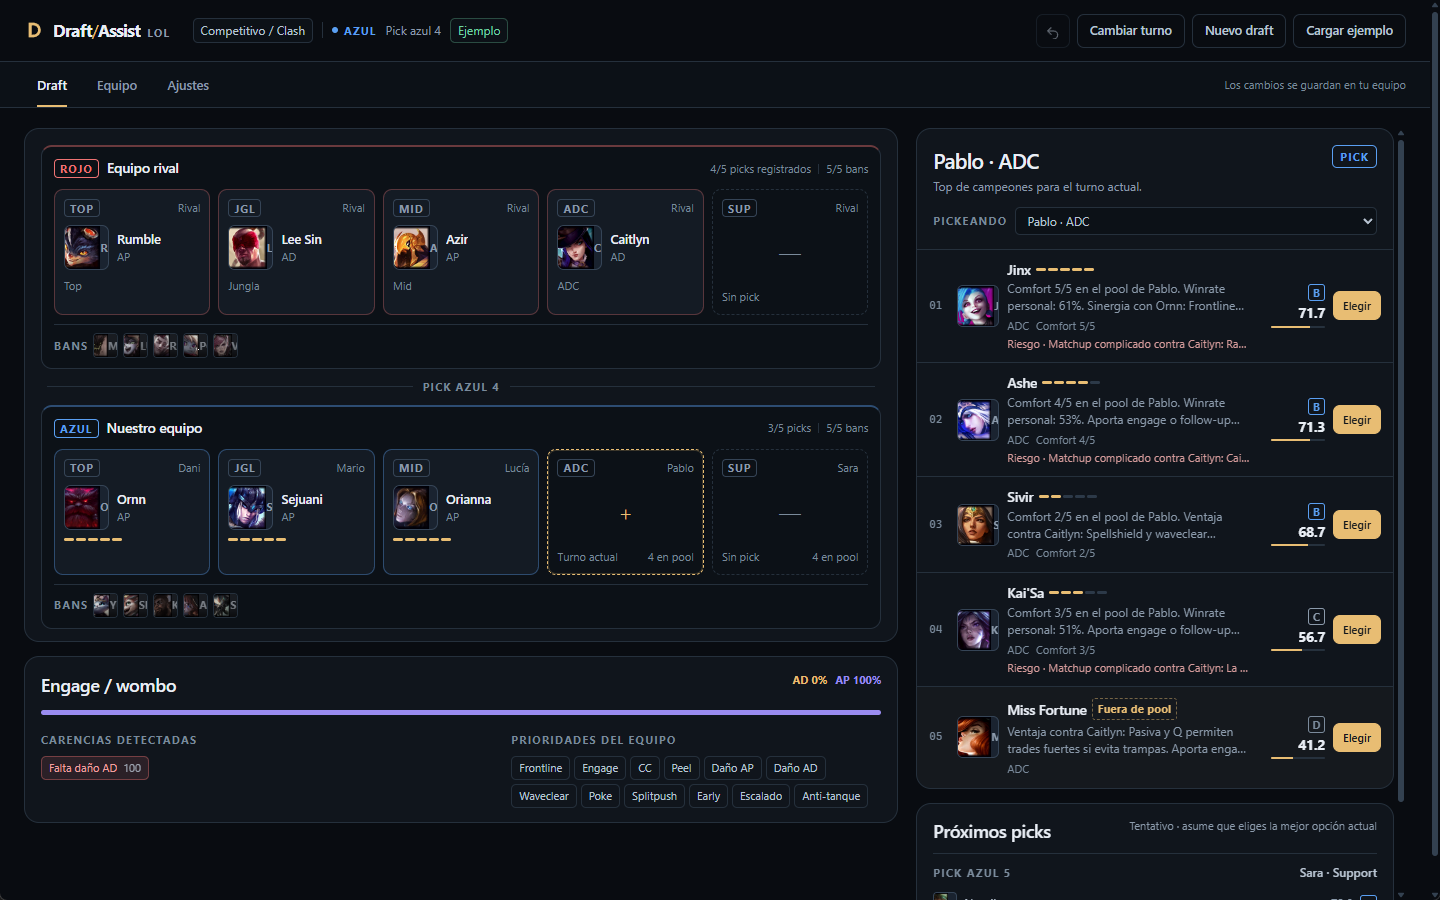
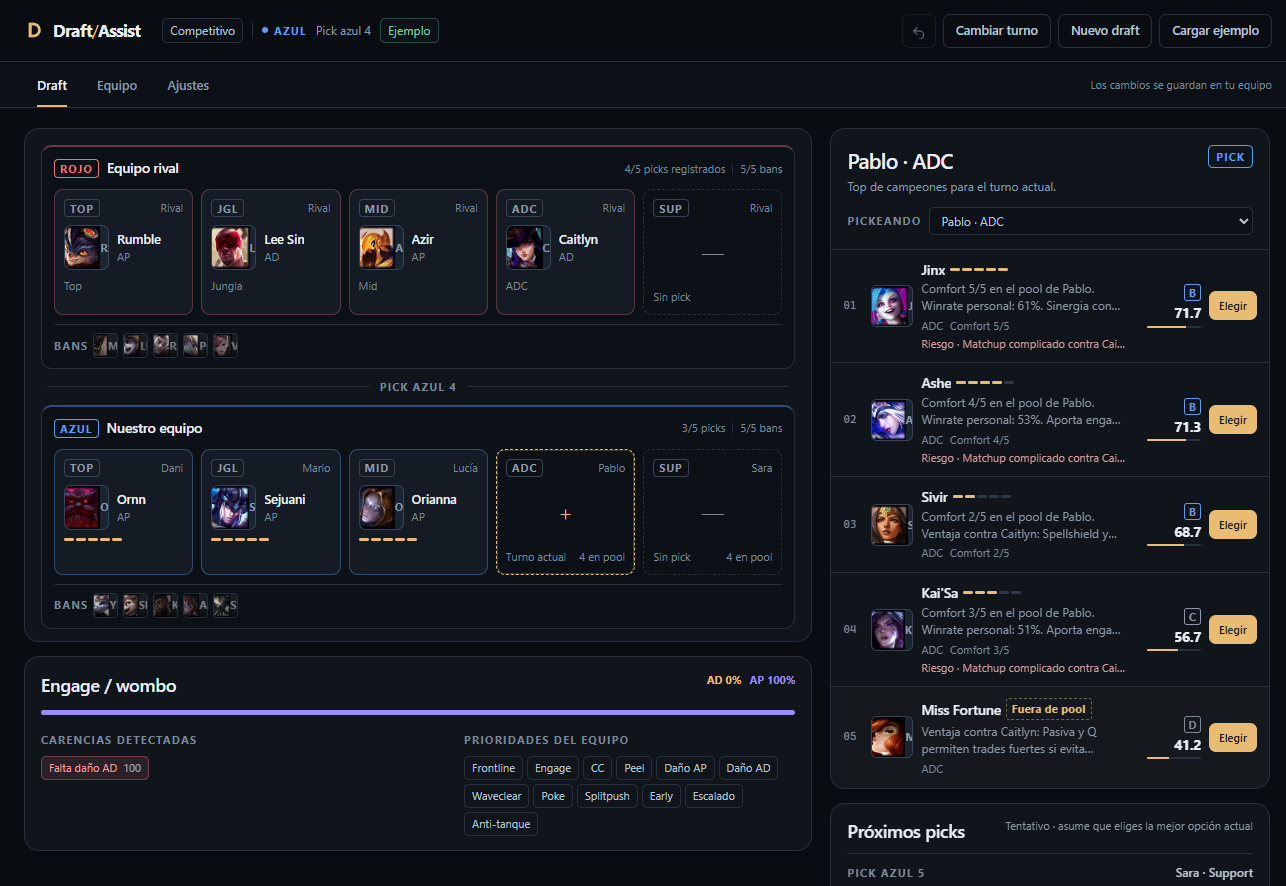
fix jibber jabber

diff --git a/src/js/render.js b/src/js/render.js
@@ -781,9 +781,20 @@ function settingsView(view) {
           </div>
         </header>
         <p>El motor combina comfort, matchup de línea, sinergia estructural, carencias de composición, prioridad estática del parche y flexibilidad. En picks tempranos pesa más el pool y la seguridad; en picks tardíos gana peso el counter directo.</p>
-        <p>Los bans se calculan por amenaza a tus picks y a los pools restantes, con penalización si el campeón está en tu propio pool.</p>
-        <p class="muted">Los datos son locales y editables. No hay llamadas a Riot ni scraping en esta versión.</p>
+        <p>Los bans se calculan por amenaza a tus picks y a los pools restantes, con penalización si el campeón está en tu propio pool (bans propios).</p>
         ${validation?.errors?.length ? `<div class="notice-list">${validation.errors.map((error) => `<p class="notice notice-error">${escapeHtml(error)}</p>`).join("")}</div>` : ""}
+      </section>
+
+      <section class="settings-section settings-about">
+        <header class="panel-head">
+          <div>
+            <h2>Acerca de / Aviso legal</h2>
+          </div>
+        </header>
+        <p>La app no automatiza picks ni bans; todas las acciones las confirma el usuario.</p>
+        <p class="muted">Los datos son locales y editables. No hay llamadas a Riot ni scraping en esta versión. En una próxima versión se podrán guardar datos de uso localmente para estadística personal.</p>
+        <p class="muted">Draft Assist isn't endorsed by Riot Games and doesn't reflect the views or opinions of Riot Games or anyone officially involved in producing or managing Riot Games properties. Riot Games, and all associated properties are trademarks or registered trademarks of Riot Games, Inc.</p>
+        <p class="muted">Los datos e imágenes de campeones son propiedad de Riot Games y se usan bajo la política de Riot/Data Dragon. No están cubiertos por la licencia MIT ni pueden usarse comercialmente.</p>
       </section>
     </div>
   `;

diff --git a/src/index.html b/src/index.html
@@ -8,19 +8,18 @@
       name="description"
       content="Asistente de draft para League of Legends: recomendaciones de picks y bans por comfort, matchup, sinergia y composición."
     />
-    <title>Draft Assist LoL</title>
+    <title>Draft Assist</title>
     <link rel="stylesheet" href="styles.css" />
     <script type="module" src="main.js" defer></script>
   </head>
   <body>
     <div class="app-shell">
       <header class="topbar">
-        <div class="brand" aria-label="Draft Assist LoL">
+        <div class="brand" aria-label="Draft Assist">
           <svg class="brand-mark" viewBox="0 0 24 24" aria-hidden="true">
             <path d="M5 4h5.4a8 8 0 0 1 0 16H5V4Zm3.4 3v10h2a5 5 0 0 0 0-10h-2Z" />
           </svg>
           <span class="brand-name">Draft<span class="brand-slash">/</span>Assist</span>
-          <span class="brand-game">LoL</span>
         </div>
 
         <div class="topbar-context" id="topbar-context"></div>

diff --git a/src/styles.css b/src/styles.css
@@ -197,14 +197,6 @@ code {
   font-weight: 400;
 }
 
-.brand-game {
-  font-size: 11px;
-  font-weight: 700;
-  letter-spacing: 0.12em;
-  color: var(--muted);
-  text-transform: uppercase;
-}
-
 .topbar-context {
   display: flex;
   align-items: center;

diff --git a/src-tauri/src/lib.rs b/src-tauri/src/lib.rs
@@ -13,6 +13,49 @@ pub struct RuntimeState {
     pub warnings: Vec<String>,
 }
 
+/// Copies the state and editable data from the old identifier folder once.
+/// Best effort: a failed migration must never prevent the app from starting.
+fn migrate_legacy_data(app: &tauri::App) {
+    let Ok(base) = app.path().data_dir() else {
+        return;
+    };
+    let old_dir = base.join("com.elviejo27.draftlol");
+    let Ok(new_dir) = app.path().app_data_dir() else {
+        return;
+    };
+    if !old_dir.exists() || old_dir == new_dir {
+        return;
+    }
+
+    let _ = std::fs::create_dir_all(&new_dir);
+
+    let old_state = old_dir.join("state.json");
+    let new_state = new_dir.join("state.json");
+    if old_state.exists() && !new_state.exists() {
+        let _ = std::fs::copy(&old_state, &new_state);
+    }
+
+    let old_data = old_dir.join("data");
+    let new_data = new_dir.join("data");
+    if old_data.exists() {
+        let _ = std::fs::create_dir_all(&new_data);
+        if let Ok(entries) = std::fs::read_dir(&old_data) {
+            for entry in entries.flatten() {
+                let path = entry.path();
+                if !path.is_file() {
+                    continue;
+                }
+                if let Some(name) = path.file_name() {
+                    let target = new_data.join(name);
+                    if !target.exists() {
+                        let _ = std::fs::copy(&path, &target);
+                    }
+                }
+            }
+        }
+    }
+}
+
 pub fn load_engine(data_dir: &Path) -> Result<(Engine, Vec<String>), String> {
     let data_path = data_dir.join("data");
     let mut warnings = Vec::new();
@@ -43,6 +86,7 @@ pub fn run() {
     tauri::Builder::default()
         .plugin(tauri_plugin_opener::init())
         .setup(|app| {
+            migrate_legacy_data(app);
             let data_dir = app
                 .path()
                 .app_data_dir()

diff --git a/crates/draft-engine/src/scoring.rs b/crates/draft-engine/src/scoring.rs
@@ -703,7 +703,7 @@ pub fn evaluate_ban(
                 self_pool_comfort = Some(comfort);
                 if comfort >= 4 {
                     self_ban_reason = Some(format!(
-                        "Está en el pool de {} ({comfort}/5): evita el autoban.",
+                        "Está en el pool de {} ({comfort}/5): evita el ban propio.",
                         player.name
                     ));
                 }

diff --git a/src-tauri/src/main.rs b/src-tauri/src/main.rs
@@ -2,5 +2,5 @@
 #![cfg_attr(not(debug_assertions), windows_subsystem = "windows")]
 
 fn main() {
-    draft_lol_lib::run()
+    draft_assist_lib::run()
 }

diff --git a/README.md b/README.md
@@ -1,17 +1,21 @@
-# Draft Assist LoL
+# Draft Assist
 
 Asistente de draft para League of Legends, hecho con **Rust + Tauri v2** y frontend vanilla. Registra el estado real del champion select y devuelve un Top 5 explicado para el pick o ban actual.
 
-![Draft Assist LoL](docs/screenshot.png)
+[Repositorio](https://github.com/viejo27/draft-assist) · [Descargas](https://github.com/viejo27/draft-assist/releases)
+
+![Draft Assist](docs/screenshot.png)
 
 - Datos locales de **Data Dragon 16.21.1** (173 campeones e iconos).
 - Pool por jugador con comfort 1–5 y winrate opcional.
 - Counters y sinergias en JSON editable.
-- Plantillas **ranked solo** y **competitivo/Clash**.
+- Plantillas **ranked solo** y **competitivo**.
 - Recomendaciones con score, tier, razones y riesgos.
-- Bans recomendados por amenaza y autoban.
+- Bans recomendados por amenaza y protección de bans propios.
 - Próximos picks tentativos.
 - Persistencia local con autosave, export/import.
+
+La app no automatiza picks ni bans; todas las acciones las confirma el usuario.
 
 ## Requisitos
 
@@ -40,7 +44,7 @@ Build de producción:
 npm.cmd run build
 ```
 
-Genera el ejecutable en `target/release/draft-lol.exe` y los instaladores en `target/release/bundle/` (MSI y NSIS en Windows). Si solo quieres compilar sin empaquetar:
+Genera el ejecutable en `target/release/draft-assist.exe` y los instaladores en `target/release/bundle/` (MSI y NSIS en Windows). Si solo quieres compilar sin empaquetar:
 
 ```powershell
 npx.cmd @tauri-apps/cli build --no-bundle
@@ -64,7 +68,7 @@ La primera vez se abre con un **draft de ejemplo** cargado. Desde ahí puedes ed
 
 ## Uso rápido
 
-1. **Nuevo draft** → elige `Ranked solo` o `Competitivo / Clash`, y tu lado (azul/rojo).
+1. **Nuevo draft** → elige `Ranked solo` o `Competitivo`, y tu lado (azul/rojo).
 2. **Equipo** → revisa los 5 jugadores, su orden de picks y su pool. Ajusta comfort y winrate.
 3. **Draft** → registra bans y picks. Si el turno es del rival, la app te pide registrar su acción.
 4. En tu turno, el panel derecho muestra el Top 5. Cada carta indica:
@@ -78,10 +82,10 @@ La primera vez se abre con un **draft de ejemplo** cargado. Desde ahí puedes ed
 El estado se guarda automáticamente en:
 
 ```text
-%APPDATA%/com.elviejo27.draftlol/state.json
+%APPDATA%/viejo27.draft-assist/state.json
 ```
 
-Los JSON editables se copian a `%APPDATA%/com.elviejo27.draftlol/data/`.
+Los JSON editables se copian a `%APPDATA%/viejo27.draft-assist/data/`.
 
 ## Modelo de entrada
 
@@ -235,7 +239,7 @@ Componentes: comfort, matchup de línea, riesgo de counters, sinergia curada/est
 - **Picks tempranos:** pesan más comfort, meta y flex/seguridad.
 - **Picks tardíos:** pesan más matchup y counter directo.
 - **Pool primero:** por defecto, todos los campeones del pool se ordenan antes que los off-pool. Los off-pool siguen visibles con advertencia.
-- **Bans:** priorizan amenaza a tus picks/pools y penalizan autobans.
+- **Bans:** priorizan amenaza a tus picks/pools y penalizan los bans propios.
 
 El detalle técnico está en [`docs/DESIGN.md`](docs/DESIGN.md). El sistema visual está en [`DESIGN.md`](DESIGN.md).
 
@@ -295,16 +299,22 @@ Tests cubiertos: dataset completo, exclusión de bans/picks, rol, carencias, pri
 
 ## Mejoras futuras
 
-- Integración LCU para leer champion select automáticamente.
-- Riot API para maestría, winrates y pools reales.
-- Counters/sinergias desde datos estadísticos por parche.
+- Integración LCU de solo lectura para reducir la entrada manual (futuro, no implementado; sujeto a aprobación de Riot).
+- Riot API para maestría y estadísticas propias (futuro, no implementado; requiere production key y aprobación de Riot).
+- Guardar datos de uso (picks, bans, resultados) localmente para estadística personal (próxima versión).
 - Draft fearless con bans acumulados por serie.
 - Optimización conjunta de los 5 bans de ranked.
 - Simulación de respuestas enemigas y Monte Carlo.
-- Scouting de pools rivales.
+- Notas de scouting del rival introducidas manualmente, solo con información pública (futuro).
 - Historial de drafts/scrims y vista de coach.
 - Tests E2E de UI y accesibilidad.
 
 ## Licencia
 
-MIT. Ver [`LICENSE`](LICENSE).
+El código de Draft Assist está bajo la licencia MIT. Ver [`LICENSE`](LICENSE).
+
+Los datos e imágenes de campeones son propiedad de Riot Games y se usan bajo la política de Riot/Data Dragon. No están cubiertos por la licencia MIT y no pueden usarse comercialmente. Ver [`ATTRIBUTION.md`](ATTRIBUTION.md).
+
+## Aviso legal
+
+Draft Assist isn't endorsed by Riot Games and doesn't reflect the views or opinions of Riot Games or anyone officially involved in producing or managing Riot Games properties. Riot Games, and all associated properties are trademarks or registered trademarks of Riot Games, Inc.

diff --git a/docs/DESIGN.md b/docs/DESIGN.md
@@ -1,4 +1,4 @@
-# Diseño técnico — Draft Assist LoL
+# Diseño técnico — Draft Assist
 
 ## 1. Alcance
 
@@ -189,7 +189,7 @@ Score de ban:
 
 - `threat`: cuánto counterea a nuestros picks y a los pools restantes (ponderado por comfort).
 - `denial`: neutral 0.5 en v1 (no hay pools enemigos).
-- `self_ban`: comfort máximo del campeón en nuestro roster; evita autobans.
+- `self_ban`: comfort máximo del campeón en nuestro roster; evita los bans propios.
 - Se excluyen baneados y pickeados.
 
 ## 7. Próximos picks
@@ -242,16 +242,17 @@ Además: `cargo fmt --check`, `cargo clippy --workspace --all-targets -- -D warn
 - El rol enemigo se infiere si no se registra.
 - La UI no expone el modo manual completo; el motor lo soporta y la UI permite saltar de turno.
 - No hay integración con LCU/Riot API.
+- No hay scraping de terceros.
 
 ## 12. Mejoras futuras
 
-- LCU para leer champion select automáticamente.
-- Riot API para maestría, winrates y pools reales.
-- ETL de counters/sinergias por parche (lolalytics/u.gg/Meraki).
+- LCU de solo lectura para reducir la entrada manual (futuro, no implementado; sujeto a aprobación de Riot).
+- Riot API para maestría y estadísticas propias (futuro, no implementado; requiere production key y aprobación de Riot).
+- Guardar datos de uso (picks, bans, resultados) localmente para estadística personal (próxima versión).
 - Draft fearless con bans acumulados.
 - Optimización conjunta de los 5 bans.
 - Simulación Monte Carlo de respuestas enemigas.
-- Scouting de pools rivales y bans por comfort.
+- Notas de scouting del rival introducidas manualmente, solo con información pública (futuro).
 - Historial de drafts/scrims y comparación de composiciones.
 - Multiusuario/cloud para coaches.
 - Tests E2E de la UI y accesibilidad.

diff --git a/PRODUCT.md b/PRODUCT.md
@@ -2,7 +2,7 @@
 
 ## Product
 
-**Draft Assist LoL** es una aplicación de escritorio para equipos amateur y competitivos de League of Legends que necesitan decidir picks y bans durante el draft con criterio de composición, matchup y comfort del jugador.
+**Draft Assist** es una aplicación de escritorio para equipos amateur y competitivos de League of Legends que necesitan decidir picks y bans durante el draft con criterio de composición, matchup y comfort del jugador.
 
 ## User
 
@@ -18,6 +18,7 @@
 - El pool del jugador manda por defecto sobre el meta desconocido.
 - Los datos de campeones salen de Data Dragon 16.21.1 y están empaquetados. Counters y sinergias son un seed curado editable.
 - La app persiste el draft y el roster en JSON local; se puede exportar e importar.
+- La app no automatiza picks ni bans; todas las acciones las confirma el usuario.
 - No hay Riot API, LCU, scraping ni recomendaciones en vivo en la v1.
 
 ## Product principles
@@ -33,3 +34,4 @@
 - No es un tracker automático de partidas.
 - No promete winrates reales ni tier lists vivas.
 - No sustituye la decisión del coach: ordena opciones y expone el porqué.
+- No usa scraping de terceros. La estadística personal local se valorará en una próxima versión.

diff --git a/ATTRIBUTION.md b/ATTRIBUTION.md
@@ -1,0 +1,16 @@
+# Attribution
+
+## Code
+
+The source code of Draft Assist is licensed under the MIT License. See [LICENSE](LICENSE).
+
+## Riot Games assets
+
+The champion data and champion images included in this repository are property of Riot Games, Inc. They are used under Riot Games' "Legal Jibber Jabber" policy and the Data Dragon terms. They are not covered by the MIT License and may not be used commercially.
+
+- Data Dragon: https://developer.riotgames.com/docs/lol#data-dragon
+- Legal Jibber Jabber: https://www.riotgames.com/en/legal
+
+## Legal notice
+
+Draft Assist isn't endorsed by Riot Games and doesn't reflect the views or opinions of Riot Games or anyone officially involved in producing or managing Riot Games properties. Riot Games, and all associated properties are trademarks or registered trademarks of Riot Games, Inc.

diff --git a/DESIGN.md b/DESIGN.md
@@ -1,4 +1,4 @@
-# DESIGN.md — Draft Assist LoL
+# DESIGN.md — Draft Assist
 
 ## Mode
 
